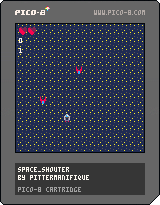
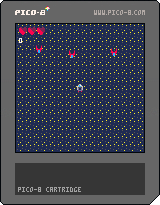
update game

diff --git a/games/index.js b/games/index.js
@@ -3,6 +3,8 @@ var _cdpos=0; var iii=0; var ciii=0;
 var _cartdat=[
 0,0,0,0,0,96,6,0,0,0,0,0,17,26,17,17,32,2,32,2,32,0,0,2,0,0,0,0,0,0,0,0,0,0,0,0,0,0,0,0,0,0,0,0,0,0,0,0,0,0,0,0,0,0,0,0,0,0,0,0,0,0,0,0,0,0,0,0,0,198,103,0,0,0,0,0,17,17,17,26,136,34,34,34,128,0,0,8,0,179,59,0,0,0,0,0,0,0,0,0,0,0,0,0,0,0,0,0,0,0,0,0,0,0,0,0,0,0,0,0,0,0,0,0,0,0,0,0,0,7,112,0,96,198,108,6,0,10,160,0,17,21,17,17,136,40,34,34,128,0,0,8,176,59,187,11,0,0,0,0,0,0,0,0,0,0,0,0,0,0,0,0,0,0,0,0,0,0,0,0,0,0,0,0,0,0,0,0,0,0,0,0,0,112,7,0,96,85,85,6,0,0,0,0,17,17,17,17,136,136,34,34,128,8,128,8,176,183,123,11,0,0,0,0,0,0,0,0,0,0,0,0,0,0,0,0,0,0,0,0,0,0,0,0,0,0,0,0,0,0,0,0,0,0,0,0,
 0,112,7,0,96,29,209,6,0,9,144,0,17,17,17,21,136,136,40,34,128,136,136,8,59,187,179,179,0,0,0,0,0,0,0,0,0,0,0,0,0,0,0,0,0,0,0,0,0,0,0,0,0,0,0,0,0,0,0,0,0,0,0,0,0,7,112,0,96,29,209,6,0,9,144,0,81,17,17,17,128,136,136,2,0,200,140,0,187,59,187,179,0,0,0,0,0,0,0,0,0,0,0,0,0,0,0,0,0,0,0,0,0,0,0,0,0,0,0,0,0,0,0,0,0,0,0,0,0,0,0,0,0,221,221,0,0,9,144,0,17,17,26,17,0,136,136,0,0,200,140,0,59,59,179,179,0,0,0,0,0,0,0,0,0,0,0,0,0,0,0,0,0,0,0,0,0,0,0,0,0,0,0,0,0,0,0,0,0,0,0,0,0,0,0,0,0,8,128,0,0,0,0,0,17,17,17,17,0,128,8,0,0,192,12,0,48,0,3,3,0,0,0,0,0,0,0,0,0,0,0,0,0,0,0,0,0,0,0,0,0,0,0,0,0,0,0,0,0,0,0,0,0,0,0,0,
+0,0,0,0,0,0,0,0,0,0,0,0,0,0,0,0,0,0,0,0,0,0,0,0,0,0,0,0,0,0,0,0,0,0,0,0,0,0,0,0,0,0,0,0,0,0,0,0,0,0,0,0,0,0,0,0,0,0,0,0,0,0,0,0,0,0,0,0,0,32,2,0,0,0,0,7,112,0,0,0,0,0,112,0,0,0,0,0,0,0,0,0,0,0,0,0,0,0,0,0,0,0,0,0,0,0,0,0,0,0,0,0,0,0,0,0,0,0,0,0,0,0,0,0,0,0,0,0,0,0,10,0,0,34,34,0,0,0,0,0,0,0,0,0,0,0,0,0,0,0,7,0,0,0,0,0,0,0,0,0,0,0,0,0,0,0,0,0,0,0,0,0,0,0,0,0,0,0,0,0,0,0,0,0,0,0,0,0,0,0,0,0,0,112,122,0,32,34,34,2,0,0,0,0,0,0,0,0,0,0,0,0,0,0,0,0,0,0,0,0,0,0,0,0,0,0,0,0,0,0,0,0,0,0,0,0,0,0,0,0,0,0,0,0,0,0,0,0,0,0,0,0,0,0,0,0,
+0,170,169,10,39,34,34,114,0,0,0,0,0,0,112,0,160,0,0,0,0,0,0,0,0,0,0,0,0,0,0,0,0,0,0,0,0,0,0,0,0,0,0,0,0,0,0,0,0,0,0,0,0,0,0,0,0,0,0,0,0,0,0,0,0,112,122,0,112,119,119,7,0,0,0,0,0,0,0,0,0,0,160,0,0,7,0,10,0,0,0,0,0,0,0,0,0,0,0,0,0,0,0,0,0,0,0,0,0,0,0,0,0,0,0,0,0,0,0,0,0,0,0,0,0,0,0,0,0,0,10,0,0,34,34,0,112,0,0,0,0,10,0,0,0,0,0,0,0,0,0,0,0,0,0,0,0,0,0,0,0,0,0,0,0,0,0,0,0,0,0,0,0,0,0,0,0,0,0,0,0,0,0,0,0,0,0,0,0,0,0,0,0,0,0,0,0,0,0,0,0,0,0,0,0,0,0,0,0,0,0,0,0,0,0,0,0,0,0,0,0,0,0,0,0,0,0,0,0,0,0,0,0,0,0,0,0,0,0,0,0,0,0,0,0,0,0,0,0,0,0,0,0,0,0,0,
 0,0,0,0,0,0,0,0,0,0,0,0,0,0,0,0,0,0,0,0,0,0,0,0,0,0,0,0,0,0,0,0,0,0,0,0,0,0,0,0,0,0,0,0,0,0,0,0,0,0,0,0,0,0,0,0,0,0,0,0,0,0,0,0,0,0,0,0,0,0,0,0,0,0,0,0,0,0,0,0,0,0,0,0,0,0,0,0,0,0,0,0,0,0,0,0,0,0,0,0,0,0,0,0,0,0,0,0,0,0,0,0,0,0,0,0,0,0,0,0,0,0,0,0,0,0,0,0,0,0,0,0,0,0,0,0,0,0,0,0,0,0,0,0,0,0,0,0,0,0,0,0,0,0,0,0,0,0,0,0,0,0,0,0,0,0,0,0,0,0,0,0,0,0,0,0,0,0,0,0,0,0,0,0,0,0,0,0,0,0,0,0,0,0,0,0,0,0,0,0,0,0,0,0,0,0,0,0,0,0,0,0,0,0,0,0,0,0,0,0,0,0,0,0,0,0,0,0,0,0,0,0,0,0,0,0,0,0,0,0,0,0,0,0,0,0,0,0,0,0,0,0,0,0,0,0,
 0,0,0,0,0,0,0,0,0,0,0,0,0,0,0,0,0,0,0,0,0,0,0,0,0,0,0,0,0,0,0,0,0,0,0,0,0,0,0,0,0,0,0,0,0,0,0,0,0,0,0,0,0,0,0,0,0,0,0,0,0,0,0,0,0,0,0,0,0,0,0,0,0,0,0,0,0,0,0,0,0,0,0,0,0,0,0,0,0,0,0,0,0,0,0,0,0,0,0,0,0,0,0,0,0,0,0,0,0,0,0,0,0,0,0,0,0,0,0,0,0,0,0,0,0,0,0,0,0,0,0,0,0,0,0,0,0,0,0,0,0,0,0,0,0,0,0,0,0,0,0,0,0,0,0,0,0,0,0,0,0,0,0,0,0,0,0,0,0,0,0,0,0,0,0,0,0,0,0,0,0,0,0,0,0,0,0,0,0,0,0,0,0,0,0,0,0,0,0,0,0,0,0,0,0,0,0,0,0,0,0,0,0,0,0,0,0,0,0,0,0,0,0,0,0,0,0,0,0,0,0,0,0,0,0,0,0,0,0,0,0,0,0,0,0,0,0,0,0,0,0,0,0,0,0,0,
 0,0,0,0,0,0,0,0,0,0,0,0,0,0,0,0,0,0,0,0,0,0,0,0,0,0,0,0,0,0,0,0,0,0,0,0,0,0,0,0,0,0,0,0,0,0,0,0,0,0,0,0,0,0,0,0,0,0,0,0,0,0,0,0,0,0,0,0,0,0,0,0,0,0,0,0,0,0,0,0,0,0,0,0,0,0,0,0,0,0,0,0,0,0,0,0,0,0,0,0,0,0,0,0,0,0,0,0,0,0,0,0,0,0,0,0,0,0,0,0,0,0,0,0,0,0,0,0,0,0,0,0,0,0,0,0,0,0,0,0,0,0,0,0,0,0,0,0,0,0,0,0,0,0,0,0,0,0,0,0,0,0,0,0,0,0,0,0,0,0,0,0,0,0,0,0,0,0,0,0,0,0,0,0,0,0,0,0,0,0,0,0,0,0,0,0,0,0,0,0,0,0,0,0,0,0,0,0,0,0,0,0,0,0,0,0,0,0,0,0,0,0,0,0,0,0,0,0,0,0,0,0,0,0,0,0,0,0,0,0,0,0,0,0,0,0,0,0,0,0,0,0,0,0,0,0,
@@ -33,14 +35,12 @@ var _cartdat=[
 0,0,0,0,0,0,0,0,0,0,0,0,0,0,0,0,0,0,0,0,0,0,0,0,0,0,0,0,0,0,0,0,0,0,0,0,0,0,0,0,0,0,0,0,0,0,0,0,0,0,0,0,0,0,0,0,0,0,0,0,0,0,0,0,0,0,0,0,0,0,0,0,0,0,0,0,0,0,0,0,0,0,0,0,0,0,0,0,0,0,0,0,0,0,0,0,0,0,0,0,0,0,0,0,0,0,0,0,0,0,0,0,0,0,0,0,0,0,0,0,0,0,0,0,0,0,0,0,0,0,0,0,0,0,0,0,0,0,0,0,0,0,0,0,0,0,0,0,0,0,0,0,0,0,0,0,0,0,0,0,0,0,0,0,0,0,0,0,0,0,0,0,0,0,0,0,0,0,0,0,0,0,0,0,0,0,0,0,0,0,0,0,0,0,0,0,0,0,0,0,0,0,0,0,0,0,0,0,0,0,0,0,0,0,0,0,0,0,0,0,0,0,0,0,0,0,0,0,0,0,0,0,0,0,0,0,0,0,0,0,0,0,0,0,0,0,0,0,0,0,0,0,0,0,0,0,
 0,0,0,0,0,0,0,0,0,0,0,0,0,0,0,0,0,0,0,0,0,0,0,0,0,0,0,0,0,0,0,0,0,0,0,0,0,0,0,0,0,0,0,0,0,0,0,0,0,0,0,0,0,0,0,0,0,0,0,0,0,0,0,0,0,0,0,0,0,0,0,0,0,0,0,0,0,0,0,0,0,0,0,0,0,0,0,0,0,0,0,0,0,0,0,0,0,0,0,0,0,0,0,0,0,0,0,0,0,0,0,0,0,0,0,0,0,0,0,0,0,0,0,0,0,0,0,0,0,0,0,0,0,0,0,0,0,0,0,0,0,0,0,0,0,0,0,0,0,0,0,0,0,0,0,0,0,0,0,0,0,0,0,0,0,0,0,0,0,0,0,0,0,0,0,0,0,0,0,0,0,0,0,0,0,0,0,0,0,0,0,0,0,0,0,0,0,0,0,0,0,0,0,0,0,0,0,0,0,0,0,0,0,0,0,0,0,0,0,0,0,0,0,0,0,0,0,0,0,0,0,0,0,0,0,0,0,0,0,0,0,0,0,0,0,0,0,0,0,0,0,0,0,0,0,0,
 0,0,0,0,0,0,0,0,0,0,0,0,0,0,0,0,0,0,0,0,0,0,0,0,0,0,0,0,0,0,0,0,0,0,0,0,0,0,0,0,0,0,0,0,0,0,0,0,0,0,0,0,0,0,0,0,0,0,0,0,0,0,0,0,0,0,0,0,0,0,0,0,0,0,0,0,0,0,0,0,0,0,0,0,0,0,0,0,0,0,0,0,0,0,0,0,0,0,0,0,0,0,0,0,0,0,0,0,0,0,0,0,0,0,0,0,0,0,0,0,0,0,0,0,0,0,0,0,0,0,0,0,0,0,0,0,0,0,0,0,0,0,0,0,0,0,0,0,0,0,0,0,0,0,0,0,0,0,0,0,0,0,0,0,0,0,0,0,0,0,0,0,0,0,0,0,0,0,0,0,0,0,0,0,0,0,0,0,0,0,0,0,0,0,0,0,0,0,0,0,0,0,0,0,0,0,0,0,0,0,0,0,0,0,0,0,0,0,0,0,0,0,0,0,0,0,0,0,0,0,0,0,0,0,0,0,0,0,0,0,0,0,0,0,0,0,0,0,0,0,0,0,0,0,0,0,
-3,3,3,3,3,3,3,3,3,3,3,3,3,3,3,3,0,0,0,0,0,0,0,0,0,0,0,0,0,0,0,0,0,0,0,0,0,0,0,0,0,0,0,0,0,0,0,0,0,0,0,0,0,0,0,0,0,0,0,0,0,0,0,0,0,0,0,0,0,0,0,0,0,0,0,0,0,0,0,0,0,0,0,0,0,0,0,0,0,0,0,0,0,0,0,0,0,0,0,0,0,0,0,0,0,0,0,0,0,0,0,0,0,0,0,0,0,0,0,0,0,0,0,0,0,0,0,0,3,3,3,3,3,3,3,3,3,3,3,3,3,3,3,3,0,0,0,0,0,0,0,0,0,0,0,0,0,0,0,0,0,0,0,0,0,0,0,0,0,0,0,0,0,0,0,0,0,0,0,0,0,0,0,0,0,0,0,0,0,0,0,0,0,0,0,0,0,0,0,0,0,0,0,0,0,0,0,0,0,0,0,0,0,0,0,0,0,0,0,0,0,0,0,0,0,0,0,0,0,0,0,0,0,0,0,0,0,0,0,0,0,0,0,0,0,0,0,0,0,0,0,0,0,0,0,0,
-3,3,3,3,3,3,3,3,3,3,3,3,3,3,3,3,0,0,0,0,0,0,0,0,0,0,0,0,0,0,0,0,0,0,0,0,0,0,0,0,0,0,0,0,0,0,0,0,0,0,0,0,0,0,0,0,0,0,0,0,0,0,0,0,0,0,0,0,0,0,0,0,0,0,0,0,0,0,0,0,0,0,0,0,0,0,0,0,0,0,0,0,0,0,0,0,0,0,0,0,0,0,0,0,0,0,0,0,0,0,0,0,0,0,0,0,0,0,0,0,0,0,0,0,0,0,0,0,3,3,3,3,3,3,3,3,3,3,3,3,3,3,3,3,0,0,0,0,0,0,0,0,0,0,0,0,0,0,0,0,0,0,0,0,0,0,0,0,0,0,0,0,0,0,0,0,0,0,0,0,0,0,0,0,0,0,0,0,0,0,0,0,0,0,0,0,0,0,0,0,0,0,0,0,0,0,0,0,0,0,0,0,0,0,0,0,0,0,0,0,0,0,0,0,0,0,0,0,0,0,0,0,0,0,0,0,0,0,0,0,0,0,0,0,0,0,0,0,0,0,0,0,0,0,0,0,
-3,3,3,3,3,3,3,3,3,3,3,3,3,3,3,3,0,0,0,0,0,0,0,0,0,0,0,0,0,0,0,0,0,0,0,0,0,0,0,0,0,0,0,0,0,0,0,0,0,0,0,0,0,0,0,0,0,0,0,0,0,0,0,0,0,0,0,0,0,0,0,0,0,0,0,0,0,0,0,0,0,0,0,0,0,0,0,0,0,0,0,0,0,0,0,0,0,0,0,0,0,0,0,0,0,0,0,0,0,0,0,0,0,0,0,0,0,0,0,0,0,0,0,0,0,0,0,0,3,3,3,3,3,3,3,3,3,3,3,3,3,3,3,3,0,0,0,0,0,0,0,0,0,0,0,0,0,0,0,0,0,0,0,0,0,0,0,0,0,0,0,0,0,0,0,0,0,0,0,0,0,0,0,0,0,0,0,0,0,0,0,0,0,0,0,0,0,0,0,0,0,0,0,0,0,0,0,0,0,0,0,0,0,0,0,0,0,0,0,0,0,0,0,0,0,0,0,0,0,0,0,0,0,0,0,0,0,0,0,0,0,0,0,0,0,0,0,0,0,0,0,0,0,0,0,0,
-3,3,3,3,3,3,3,3,3,3,3,3,3,3,3,3,0,0,0,0,0,0,0,0,0,0,0,0,0,0,0,0,0,0,0,0,0,0,0,0,0,0,0,0,0,0,0,0,0,0,0,0,0,0,0,0,0,0,0,0,0,0,0,0,0,0,0,0,0,0,0,0,0,0,0,0,0,0,0,0,0,0,0,0,0,0,0,0,0,0,0,0,0,0,0,0,0,0,0,0,0,0,0,0,0,0,0,0,0,0,0,0,0,0,0,0,0,0,0,0,0,0,0,0,0,0,0,0,3,3,3,3,3,3,3,3,3,3,3,3,3,3,3,3,0,0,0,0,0,0,0,0,0,0,0,0,0,0,0,0,0,0,0,0,0,0,0,0,0,0,0,0,0,0,0,0,0,0,0,0,0,0,0,0,0,0,0,0,0,0,0,0,0,0,0,0,0,0,0,0,0,0,0,0,0,0,0,0,0,0,0,0,0,0,0,0,0,0,0,0,0,0,0,0,0,0,0,0,0,0,0,0,0,0,0,0,0,0,0,0,0,0,0,0,0,0,0,0,0,0,0,0,0,0,0,0,
-3,3,3,3,3,3,3,3,3,3,3,3,3,3,3,3,0,0,0,0,0,0,0,0,0,0,0,0,0,0,0,0,0,0,0,0,0,0,0,0,0,0,0,0,0,0,0,0,0,0,0,0,0,0,0,0,0,0,0,0,0,0,0,0,0,0,0,0,0,0,0,0,0,0,0,0,0,0,0,0,0,0,0,0,0,0,0,0,0,0,0,0,0,0,0,0,0,0,0,0,0,0,0,0,0,0,0,0,0,0,0,0,0,0,0,0,0,0,0,0,0,0,0,0,0,0,0,0,3,3,3,3,3,3,3,3,3,3,3,3,3,3,3,3,0,0,0,0,0,0,0,0,0,0,0,0,0,0,0,0,0,0,0,0,0,0,0,0,0,0,0,0,0,0,0,0,0,0,0,0,0,0,0,0,0,0,0,0,0,0,0,0,0,0,0,0,0,0,0,0,0,0,0,0,0,0,0,0,0,0,0,0,0,0,0,0,0,0,0,0,0,0,0,0,0,0,0,0,0,0,0,0,0,0,0,0,0,0,0,0,0,0,0,0,0,0,0,0,0,0,0,0,0,0,0,0,
-3,3,3,3,3,3,3,3,3,3,3,3,3,3,3,3,0,0,0,0,0,0,0,0,0,0,0,0,0,0,0,0,0,0,0,0,0,0,0,0,0,0,0,0,0,0,0,0,0,0,0,0,0,0,0,0,0,0,0,0,0,0,0,0,0,0,0,0,0,0,0,0,0,0,0,0,0,0,0,0,0,0,0,0,0,0,0,0,0,0,0,0,0,0,0,0,0,0,0,0,0,0,0,0,0,0,0,0,0,0,0,0,0,0,0,0,0,0,0,0,0,0,0,0,0,0,0,0,3,3,3,3,3,3,3,3,3,3,3,3,3,3,3,3,0,0,0,0,0,0,0,0,0,0,0,0,0,0,0,0,0,0,0,0,0,0,0,0,0,0,0,0,0,0,0,0,0,0,0,0,0,0,0,0,0,0,0,0,0,0,0,0,0,0,0,0,0,0,0,0,0,0,0,0,0,0,0,0,0,0,0,0,0,0,0,0,0,0,0,0,0,0,0,0,0,0,0,0,0,0,0,0,0,0,0,0,0,0,0,0,0,0,0,0,0,0,0,0,0,0,0,0,0,0,0,0,
-3,3,3,3,3,3,3,3,3,3,3,3,3,3,3,3,0,0,0,0,0,0,0,0,0,0,0,0,0,0,0,0,0,0,0,0,0,0,0,0,0,0,0,0,0,0,0,0,0,0,0,0,0,0,0,0,0,0,0,0,0,0,0,0,0,0,0,0,0,0,0,0,0,0,0,0,0,0,0,0,0,0,0,0,0,0,0,0,0,0,0,0,0,0,0,0,0,0,0,0,0,0,0,0,0,0,0,0,0,0,0,0,0,0,0,0,0,0,0,0,0,0,0,0,0,0,0,0,3,3,3,3,3,3,3,3,3,3,3,3,3,3,3,3,0,0,0,0,0,0,0,0,0,0,0,0,0,0,0,0,0,0,0,0,0,0,0,0,0,0,0,0,0,0,0,0,0,0,0,0,0,0,0,0,0,0,0,0,0,0,0,0,0,0,0,0,0,0,0,0,0,0,0,0,0,0,0,0,0,0,0,0,0,0,0,0,0,0,0,0,0,0,0,0,0,0,0,0,0,0,0,0,0,0,0,0,0,0,0,0,0,0,0,0,0,0,0,0,0,0,0,0,0,0,0,0,
-3,3,3,3,3,3,3,3,3,3,3,3,3,3,3,3,0,0,0,0,0,0,0,0,0,0,0,0,0,0,0,0,0,0,0,0,0,0,0,0,0,0,0,0,0,0,0,0,0,0,0,0,0,0,0,0,0,0,0,0,0,0,0,0,0,0,0,0,0,0,0,0,0,0,0,0,0,0,0,0,0,0,0,0,0,0,0,0,0,0,0,0,0,0,0,0,0,0,0,0,0,0,0,0,0,0,0,0,0,0,0,0,0,0,0,0,0,0,0,0,0,0,0,0,0,0,0,0,3,3,3,3,3,3,3,3,3,3,3,3,3,3,3,3,0,0,0,0,0,0,0,0,0,0,0,0,0,0,0,0,0,0,0,0,0,0,0,0,0,0,0,0,0,0,0,0,0,0,0,0,0,0,0,0,0,0,0,0,0,0,0,0,0,0,0,0,0,0,0,0,0,0,0,0,0,0,0,0,0,0,0,0,0,0,0,0,0,0,0,0,0,0,0,0,0,0,0,0,0,0,0,0,0,0,0,0,0,0,0,0,0,0,0,0,0,0,0,0,0,0,0,0,0,0,0,0,
+0,0,0,0,0,0,0,0,0,0,0,0,0,0,0,0,0,0,0,0,0,0,0,0,0,0,0,0,0,0,0,0,0,0,0,0,0,0,0,0,0,0,0,0,0,0,0,0,0,0,0,0,0,0,0,0,0,0,0,0,0,0,0,0,0,0,0,0,0,0,0,0,0,0,0,0,0,0,0,0,0,0,0,0,0,0,0,0,0,0,0,0,0,0,0,0,0,0,0,0,0,0,0,0,0,0,0,0,0,0,0,0,0,0,0,0,0,0,0,0,0,0,0,0,0,0,0,0,0,0,0,0,0,0,0,0,0,0,0,0,0,0,0,0,0,0,0,0,0,0,0,0,0,0,0,0,0,0,0,0,0,0,0,0,0,0,0,0,0,0,0,0,0,0,0,0,0,0,0,0,0,0,0,0,0,0,0,0,0,0,0,0,0,0,0,0,0,0,0,0,0,0,0,0,0,0,0,0,0,0,0,0,0,0,0,0,0,0,0,0,0,0,0,0,0,0,0,0,0,0,0,0,0,0,0,0,0,0,0,0,0,0,0,0,0,0,0,0,0,0,0,0,0,0,0,0,
+0,0,0,0,0,0,0,0,0,0,0,0,0,0,0,0,0,0,0,0,0,0,0,0,0,0,0,0,0,0,0,0,0,0,0,0,0,0,0,0,0,0,0,0,0,0,0,0,0,0,0,0,0,0,0,0,0,0,0,0,0,0,0,0,0,0,0,0,0,0,0,0,0,0,0,0,0,0,0,0,0,0,0,0,0,0,0,0,0,0,0,0,0,0,0,0,0,0,0,0,0,0,0,0,0,0,0,0,0,0,0,0,0,0,0,0,0,0,0,0,0,0,0,0,0,0,0,0,0,0,0,0,0,0,0,0,0,0,0,0,0,0,0,0,0,0,0,0,0,0,0,0,0,0,0,0,0,0,0,0,0,0,0,0,0,0,0,0,0,0,0,0,0,0,0,0,0,0,0,0,0,0,0,0,0,0,0,0,0,0,0,0,0,0,0,0,0,0,0,0,0,0,0,0,0,0,0,0,0,0,0,0,0,0,0,0,0,0,0,0,0,0,0,0,0,0,0,0,0,0,0,0,0,0,0,0,0,0,0,0,0,0,0,0,0,0,0,0,0,0,0,0,0,0,0,0,
+0,0,0,0,0,0,0,0,0,0,0,0,0,0,0,0,0,0,0,0,0,0,0,0,0,0,0,0,0,0,0,0,0,0,0,0,0,0,0,0,0,0,0,0,0,0,0,0,0,0,0,0,0,0,0,0,0,0,0,0,0,0,0,0,0,0,0,0,0,0,0,0,0,0,0,0,0,0,0,0,0,0,0,0,0,0,0,0,0,0,0,0,0,0,0,0,0,0,0,0,0,0,0,0,0,0,0,0,0,0,0,0,0,0,0,0,0,0,0,0,0,0,0,0,0,0,0,0,0,0,0,0,0,0,0,0,0,0,0,0,0,0,0,0,0,0,0,0,0,0,0,0,0,0,0,0,0,0,0,0,0,0,0,0,0,0,0,0,0,0,0,0,0,0,0,0,0,0,0,0,0,0,0,0,0,0,0,0,0,0,0,0,0,0,0,0,0,0,0,0,0,0,0,0,0,0,0,0,0,0,0,0,0,0,0,0,0,0,0,0,0,0,0,0,0,0,0,0,0,0,0,0,0,0,0,0,0,0,0,0,0,0,0,0,0,0,0,0,0,0,0,0,0,0,0,0,
+0,0,0,0,0,0,0,0,0,0,0,0,0,0,0,0,0,0,0,0,0,0,0,0,0,0,0,0,0,0,0,0,0,0,0,0,0,0,0,0,0,0,0,0,0,0,0,0,0,0,0,0,0,0,0,0,0,0,0,0,0,0,0,0,0,0,0,0,0,0,0,0,0,0,0,0,0,0,0,0,0,0,0,0,0,0,0,0,0,0,0,0,0,0,0,0,0,0,0,0,0,0,0,0,0,0,0,0,0,0,0,0,0,0,0,0,0,0,0,0,0,0,0,0,0,0,0,0,0,0,0,0,0,0,0,0,0,0,0,0,0,0,0,0,0,0,0,0,0,0,0,0,0,0,0,0,0,0,0,0,0,0,0,0,0,0,0,0,0,0,0,0,0,0,0,0,0,0,0,0,0,0,0,0,0,0,0,0,0,0,0,0,0,0,0,0,0,0,0,0,0,0,0,0,0,0,0,0,0,0,0,0,0,0,0,0,0,0,0,0,0,0,0,0,0,0,0,0,0,0,0,0,0,0,0,0,0,0,0,0,0,0,0,0,0,0,0,0,0,0,0,0,0,0,0,0,
+0,0,0,0,0,0,0,0,0,0,0,0,0,0,0,0,0,0,0,0,0,0,0,0,0,0,0,0,0,0,0,0,0,0,0,0,0,0,0,0,0,0,0,0,0,0,0,0,0,0,0,0,0,0,0,0,0,0,0,0,0,0,0,0,0,0,0,0,0,0,0,0,0,0,0,0,0,0,0,0,0,0,0,0,0,0,0,0,0,0,0,0,0,0,0,0,0,0,0,0,0,0,0,0,0,0,0,0,0,0,0,0,0,0,0,0,0,0,0,0,0,0,0,0,0,0,0,0,0,0,0,0,0,0,0,0,0,0,0,0,0,0,0,0,0,0,0,0,0,0,0,0,0,0,0,0,0,0,0,0,0,0,0,0,0,0,0,0,0,0,0,0,0,0,0,0,0,0,0,0,0,0,0,0,0,0,0,0,0,0,0,0,0,0,0,0,0,0,0,0,0,0,0,0,0,0,0,0,0,0,0,0,0,0,0,0,0,0,0,0,0,0,0,0,0,0,0,0,0,0,0,0,0,0,0,0,0,0,0,0,0,0,0,0,0,0,0,0,0,0,0,0,0,0,0,0,
+0,0,0,0,0,0,0,0,0,0,0,0,0,0,0,0,0,0,0,0,0,0,0,0,0,0,0,0,0,0,0,0,0,0,0,0,0,0,0,0,0,0,0,0,0,0,0,0,0,0,0,0,0,0,0,0,0,0,0,0,0,0,0,0,0,0,0,0,0,0,0,0,0,0,0,0,0,0,0,0,0,0,0,0,0,0,0,0,0,0,0,0,0,0,0,0,0,0,0,0,0,0,0,0,0,0,0,0,0,0,0,0,0,0,0,0,0,0,0,0,0,0,0,0,0,0,0,0,0,0,0,0,0,0,0,0,0,0,0,0,0,0,0,0,0,0,0,0,0,0,0,0,0,0,0,0,0,0,0,0,0,0,0,0,0,0,0,0,0,0,0,0,0,0,0,0,0,0,0,0,0,0,0,0,0,0,0,0,0,0,0,0,0,0,0,0,0,0,0,0,0,0,0,0,0,0,0,0,0,0,0,0,0,0,0,0,0,0,0,0,0,0,0,0,0,0,0,0,0,0,0,0,0,0,0,0,0,0,0,0,0,0,0,0,0,0,0,0,0,0,0,0,0,0,0,0,
 0,0,0,0,0,0,0,0,0,0,0,0,0,0,0,0,0,0,0,0,0,0,0,0,0,0,0,0,0,0,0,0,0,0,0,0,0,0,0,0,0,0,0,0,0,0,0,0,0,0,0,0,0,0,0,0,0,0,0,0,0,0,0,0,0,0,0,0,0,0,0,0,0,0,0,0,0,0,0,0,0,0,0,0,0,0,0,0,0,0,0,0,0,0,0,0,0,0,0,0,0,0,0,0,0,0,0,0,0,0,0,0,0,0,0,0,0,0,0,0,0,0,0,0,0,0,0,0,0,0,0,0,0,0,0,0,0,0,0,0,0,0,0,0,0,0,0,0,0,0,0,0,0,0,0,0,0,0,0,0,0,0,0,0,0,0,0,0,0,0,0,0,0,0,0,0,0,0,0,0,0,0,0,0,0,0,0,0,0,0,0,0,0,0,0,0,0,0,0,0,0,0,0,0,0,0,0,0,0,0,0,0,0,0,0,0,0,0,0,0,0,0,0,0,0,0,0,0,0,0,0,0,0,0,0,0,0,0,0,0,0,0,0,0,0,0,0,0,0,0,0,0,0,0,0,0,
 0,0,0,0,0,0,0,0,0,0,0,0,0,0,0,0,0,0,0,0,0,0,0,0,0,0,0,0,0,0,0,0,0,0,0,0,0,0,0,0,0,0,0,0,0,0,0,0,0,0,0,0,0,0,0,0,0,0,0,0,0,0,0,0,0,0,0,0,0,0,0,0,0,0,0,0,0,0,0,0,0,0,0,0,0,0,0,0,0,0,0,0,0,0,0,0,0,0,0,0,0,0,0,0,0,0,0,0,0,0,0,0,0,0,0,0,0,0,0,0,0,0,0,0,0,0,0,0,0,0,0,0,0,0,0,0,0,0,0,0,0,0,0,0,0,0,0,0,0,0,0,0,0,0,0,0,0,0,0,0,0,0,0,0,0,0,0,0,0,0,0,0,0,0,0,0,0,0,0,0,0,0,0,0,0,0,0,0,0,0,0,0,0,0,0,0,0,0,0,0,0,0,0,0,0,0,0,0,0,0,0,0,0,0,0,0,0,0,0,0,0,0,0,0,0,0,0,0,0,0,0,0,0,0,0,0,0,0,0,0,0,0,0,0,0,0,0,0,0,0,0,0,0,0,0,0,
 0,0,0,0,0,0,0,0,0,0,0,0,0,0,0,0,0,0,0,0,0,0,0,0,0,0,0,0,0,0,0,0,0,0,0,0,0,0,0,0,0,0,0,0,0,0,0,0,0,0,0,0,0,0,0,0,0,0,0,0,0,0,0,0,0,0,0,0,0,0,0,0,0,0,0,0,0,0,0,0,0,0,0,0,0,0,0,0,0,0,0,0,0,0,0,0,0,0,0,0,0,0,0,0,0,0,0,0,0,0,0,0,0,0,0,0,0,0,0,0,0,0,0,0,0,0,0,0,0,0,0,0,0,0,0,0,0,0,0,0,0,0,0,0,0,0,0,0,0,0,0,0,0,0,0,0,0,0,0,0,0,0,0,0,0,0,0,0,0,0,0,0,0,0,0,0,0,0,0,0,0,0,0,0,0,0,0,0,0,0,0,0,0,0,0,0,0,0,0,0,0,0,0,0,0,0,0,0,0,0,0,0,0,0,0,0,0,0,0,0,0,0,0,0,0,0,0,0,0,0,0,0,0,0,0,0,0,0,0,0,0,0,0,0,0,0,0,0,0,0,0,0,0,0,0,0,
@@ -68,13 +68,13 @@ var _cartdat=[
 0,0,0,0,0,0,0,0,0,0,0,0,0,0,0,0,0,16,0,0,0,0,0,0,0,0,0,0,0,0,0,0,0,0,0,0,0,0,0,0,0,0,0,0,0,0,0,0,0,0,0,0,0,0,0,0,0,0,0,0,0,0,0,0,0,0,0,0,0,0,0,0,0,0,0,0,0,0,0,0,0,0,0,0,0,16,0,0,0,0,0,0,0,0,0,0,0,0,0,0,0,0,0,0,0,0,0,0,0,0,0,0,0,0,0,0,0,0,0,0,0,0,0,0,0,0,0,0,0,0,0,0,0,0,0,0,0,0,0,0,0,0,0,0,0,0,0,0,0,0,0,0,0,16,0,0,0,0,0,0,0,0,0,0,0,0,0,0,0,0,0,0,0,0,0,0,0,0,0,0,0,0,0,0,0,0,0,0,0,0,0,0,0,0,0,0,0,0,0,0,0,0,0,0,0,0,0,0,0,0,0,0,0,0,0,0,0,0,0,0,0,16,0,0,0,0,0,0,0,0,0,0,0,0,0,0,0,0,0,0,0,0,0,0,0,0,0,0,0,0,0,0,0,0,0,0,
 0,0,0,0,0,0,0,0,0,0,0,0,0,0,0,0,0,0,0,0,0,0,0,0,0,0,0,0,0,0,0,0,0,16,0,0,0,0,0,0,0,0,0,0,0,0,0,0,0,0,0,0,0,0,0,0,0,0,0,0,0,0,0,0,0,0,0,0,0,0,0,0,0,0,0,0,0,0,0,0,0,0,0,0,0,0,0,0,0,0,0,0,0,0,0,0,0,0,0,0,0,16,0,0,0,0,0,0,0,0,0,0,0,0,0,0,0,0,0,0,0,0,0,0,0,0,0,0,0,0,0,0,0,0,0,0,0,0,0,0,0,0,0,0,0,0,0,0,0,0,0,0,0,0,0,0,0,0,0,0,0,0,0,0,0,0,0,0,0,16,0,0,0,0,0,0,0,0,0,0,0,0,0,0,0,0,0,0,0,0,0,0,0,0,0,0,0,0,0,0,0,0,0,0,0,0,0,0,0,0,0,0,0,0,0,0,0,0,0,0,0,0,0,0,0,0,0,0,0,0,0,0,0,0,0,0,0,16,0,0,0,0,0,0,0,0,0,0,0,0,0,0,0,0,0,0,
 0,0,0,0,0,0,0,0,0,0,0,0,0,0,0,0,0,0,0,0,0,0,0,0,0,0,0,0,0,0,0,0,0,0,0,0,0,0,0,0,0,0,0,0,0,0,0,0,0,16,0,0,0,0,0,0,0,0,0,0,0,0,0,0,0,0,0,0,0,0,0,0,0,0,0,0,0,0,0,0,0,0,0,0,0,0,0,0,0,0,0,0,0,0,0,0,0,0,0,0,0,0,0,0,0,0,0,0,0,0,0,0,0,0,0,0,0,16,0,0,0,0,0,0,0,0,0,0,0,0,0,0,0,0,0,0,0,0,0,0,0,0,0,0,0,0,0,0,0,0,0,0,0,0,0,0,0,0,0,0,0,0,0,0,0,0,0,0,0,0,0,0,0,0,0,0,0,0,0,0,0,0,0,0,0,16,0,0,0,0,0,0,0,0,0,0,0,0,0,0,0,0,0,0,0,0,0,0,0,0,0,0,0,0,0,0,0,0,0,0,0,0,0,0,0,0,0,0,0,0,0,0,0,0,0,0,0,0,0,0,0,0,0,0,0,0,0,0,0,0,0,0,0,16,0,0,
-0,112,120,97,15,50,5,116,235,193,226,27,188,192,205,87,223,125,116,117,250,11,188,194,43,100,175,176,99,136,219,95,34,207,31,32,52,195,35,12,188,66,244,2,197,51,228,121,29,84,77,182,145,134,3,81,189,17,53,69,117,203,49,237,224,66,121,95,241,22,79,209,220,118,218,81,101,57,148,157,119,152,13,230,234,161,224,17,178,211,46,187,206,18,15,177,179,22,118,231,153,102,109,109,179,170,236,83,140,45,22,77,237,141,92,85,32,28,172,179,176,235,198,118,118,94,35,73,70,211,52,40,211,25,69,17,55,36,139,197,232,138,89,195,141,170,52,102,150,44,8,145,171,25,74,54,218,76,138,164,156,89,232,134,212,69,146,171,86,146,169,162,156,77,243,149,149,172,221,152,152,120,138,50,42,202,118,69,175,164,84,29,157,115,147,122,216,172,188,208,236,108,174,67,16,88,86,140,44,73,44,15,69,50,71,181,233,220,206,78,168,110,98,39,233,129,98,43,10,139,124,170,89,219,9,130,56,232,135,130,34,146,32,236,131,185,180,215,24,246,131,130,73,83,196,19,
-137,55,162,149,252,33,214,118,178,33,65,1,239,88,71,224,188,19,97,245,22,242,230,127,226,186,150,40,43,171,169,145,145,81,7,217,101,166,142,71,6,139,165,141,164,173,131,86,87,113,40,154,72,173,161,207,144,86,39,214,241,226,176,7,230,244,136,37,131,118,36,67,197,215,20,3,91,101,133,34,234,7,230,162,41,93,115,74,9,173,182,77,151,54,141,148,152,172,145,92,56,99,25,228,84,121,100,88,46,156,237,130,0,249,52,203,33,248,162,88,174,97,197,242,199,54,123,225,146,45,2,219,73,165,44,230,3,66,74,58,100,130,144,139,138,233,145,91,105,244,214,143,237,224,208,43,77,32,65,169,116,31,237,54,91,233,93,228,226,86,154,23,237,108,98,58,253,59,17,146,25,23,4,241,106,170,127,181,156,101,123,11,129,244,106,231,179,57,241,250,74,205,63,186,45,189,110,251,27,12,181,125,27,69,177,85,6,91,55,28,218,13,40,76,199,75,50,207,117,170,49,15,53,201,213,64,223,116,37,17,241,143,92,58,202,201,201,213,141,38,154,19,243,216,158,105,
-182,70,211,185,229,213,162,222,73,178,168,27,82,238,218,218,200,139,193,185,228,204,202,253,22,241,86,8,25,24,152,49,248,143,205,206,253,63,117,69,164,207,100,51,58,25,15,101,29,185,154,72,51,42,73,146,50,73,54,66,59,68,205,149,123,201,124,155,8,229,63,186,238,10,100,113,106,93,99,107,71,201,125,94,41,188,82,8,157,186,91,191,96,54,30,220,56,208,208,87,70,249,153,19,174,89,183,198,138,76,178,34,82,29,219,172,46,102,2,169,116,10,168,186,73,83,212,90,122,162,145,158,224,140,236,154,194,196,250,88,160,36,83,45,77,109,174,5,58,12,107,153,43,146,100,177,74,186,165,84,143,77,37,144,179,2,84,10,234,157,98,103,199,145,201,78,177,179,147,236,20,59,214,89,29,114,81,165,106,63,53,63,81,251,72,83,108,155,42,85,245,72,106,129,31,35,136,251,207,94,226,54,94,144,254,148,102,48,198,220,20,230,4,141,149,149,91,150,163,129,214,53,186,88,206,170,170,189,206,57,18,46,89,100,141,105,53,110,141,193,66,99,252,103,160,49,
-254,191,77,85,213,147,158,82,25,90,80,25,212,188,81,221,209,59,43,108,164,185,127,123,107,169,215,62,27,113,219,178,156,125,86,68,10,71,180,81,124,159,32,145,200,176,230,76,160,163,14,177,25,153,83,185,112,109,171,133,67,101,133,16,3,99,95,76,198,198,214,99,79,223,24,70,47,197,248,237,141,183,58,237,11,23,89,9,218,194,127,104,17,140,238,108,172,44,70,186,76,118,64,184,160,40,14,211,29,57,226,178,147,12,93,41,98,85,81,161,144,229,201,229,101,73,157,161,172,91,13,181,142,229,194,189,50,181,189,23,78,59,73,175,111,112,102,67,69,152,63,195,255,140,149,10,227,29,86,24,71,66,49,225,42,90,75,137,140,172,88,173,87,25,207,64,109,71,180,11,143,70,249,255,200,118,45,165,233,150,214,177,13,229,148,93,35,153,25,141,232,197,206,118,43,165,118,190,212,145,135,53,138,164,51,130,177,145,45,156,14,168,183,70,55,226,97,55,204,185,33,112,179,47,22,221,225,93,55,21,10,178,73,220,111,55,139,225,196,128,224,147,76,78,98,201,
-172,202,58,85,242,99,110,162,75,163,76,200,63,116,35,94,29,143,165,176,93,123,161,173,58,173,38,101,43,102,22,166,198,72,72,28,18,5,99,19,138,144,202,106,99,173,106,166,112,224,227,8,7,111,201,134,107,79,54,252,63,94,69,111,116,70,111,156,129,222,248,255,60,146,112,176,222,184,10,189,241,159,27,2,7,101,241,78,165,48,165,66,92,93,172,77,146,122,120,81,74,252,130,54,113,78,206,237,148,18,242,142,2,96,16,77,6,20,196,63,120,20,23,24,132,137,74,21,61,230,8,92,208,52,50,57,145,242,26,48,132,135,128,68,11,219,79,49,32,44,2,50,20,159,186,151,174,184,163,72,87,36,9,2,93,241,103,84,87,252,13,116,197,255,187,109,132,197,127,109,11,150,191,129,96,249,127,175,8,139,255,203,148,208,223,64,9,253,191,43,197,242,127,203,18,235,111,32,177,126,170,194,147,192,197,43,49,127,145,197,120,164,226,85,194,207,248,130,128,127,70,131,0,129,198,23,4,20,52,142,32,0,161,241,4,1,11,141,35,8,112,104,188,238,24,183,
-21,20,141,179,8,184,104,156,65,128,70,227,194,62,241,50,173,232,232,88,48,138,180,226,143,232,100,99,47,208,15,67,251,240,145,125,160,148,33,160,13,73,102,111,165,18,5,154,148,227,242,85,99,65,237,104,85,108,201,22,237,75,46,15,18,186,154,214,35,146,98,63,105,108,156,11,68,48,254,139,175,66,154,77,148,9,101,214,240,5,204,26,110,209,65,100,13,206,144,53,60,195,200,26,30,118,10,33,228,240,75,62,60,226,234,2,0,0,0,0,0,0,0,0,0,0,0,0,0,0,0,0,0,0,0,0,0,0,0,0,0,0,0,0,0,0,0,0,0,0,0,0,0,0,0,0,0,0,0,0,0,0,0,0,0,0,0,0,0,0,0,0,0,0,0,0,0,0,0,0,0,0,0,0,0,0,0,0,0,0,0,0,0,0,0,0,0,0,0,0,0,0,0,0,0,0,0,0,0,0,0,0,0,0,0,0,0,0,0,0,0,0,0,0,0,0,0,0,0,0,0,0,0,0,0,0,0,0,0,0,0,0,0,0,0,0,0,0,0,0,0,0,0,0,0,0,
-0,0,0,0,0,0,0,0,0,0,0,0,0,0,0,0,0,0,0,0,0,0,0,0,0,0,0,0,0,0,0,0,0,0,0,0,0,0,0,0,0,0,0,0,0,0,0,0,0,0,0,0,0,0,0,0,0,0,0,0,0,0,0,0,0,0,0,0,0,0,0,0,0,0,0,0,0,0,0,0,0,0,0,0,0,0,0,0,0,0,0,0,0,0,0,0,0,0,0,0,0,0,0,0,0,0,0,0,0,0,0,0,0,0,0,0,0,0,0,0,0,0,0,0,0,0,0,0,0,0,0,0,0,0,0,0,0,0,0,0,0,0,0,0,0,0,0,0,0,0,0,0,0,0,0,0,0,0,0,0,0,0,0,0,0,0,0,0,0,0,0,0,0,0,0,0,0,0,0,0,0,0,0,0,0,0,0,0,0,0,0,0,0,0,0,0,0,0,0,0,0,0,0,0,0,0,0,0,0,0,0,0,0,0,0,0,0,0,0,0,0,0,0,0,0,0,0,0,0,0,0,0,0,0,0,0,0,0,0,0,0,0,0,0,0,0,0,0,0,0,0,0,0,0,0,0,
+0,112,120,97,17,152,6,25,103,191,194,253,103,191,194,241,47,16,237,158,29,53,69,117,192,5,43,221,35,28,255,10,69,151,158,127,252,27,84,110,8,234,251,219,64,35,28,11,143,208,116,169,111,234,137,200,37,126,139,235,42,203,27,87,172,77,140,164,237,57,3,105,90,84,71,92,151,92,84,68,47,208,141,140,228,89,188,178,52,243,12,101,84,148,173,72,80,56,179,177,81,236,164,175,208,189,132,155,52,4,31,33,111,51,123,12,196,11,73,96,217,166,12,114,205,48,203,6,89,209,215,142,27,104,150,154,129,169,176,105,42,59,73,15,20,77,181,86,148,27,205,93,59,65,48,23,44,44,5,69,36,65,184,16,236,164,181,198,176,31,116,77,154,34,94,75,188,17,109,228,106,39,43,130,2,222,177,142,236,121,251,104,236,33,68,143,202,210,38,19,93,150,71,197,70,154,148,97,176,161,125,52,17,197,169,110,193,150,114,66,149,206,189,196,93,97,20,173,69,209,125,106,10,66,67,178,232,231,138,140,200,156,140,168,214,161,144,96,209,165,19,237,109,101,215,198,
+30,136,5,139,37,131,118,148,71,181,208,164,7,107,233,133,34,218,24,89,139,134,132,207,41,37,116,94,219,116,105,211,72,137,233,30,201,133,51,214,73,78,149,71,238,147,11,103,187,34,64,62,205,114,72,182,40,150,235,62,197,242,199,54,107,225,134,45,2,219,105,169,12,230,3,74,75,58,100,138,145,123,210,232,81,159,105,4,217,143,235,130,43,47,52,129,44,164,46,125,196,221,108,165,96,179,20,46,4,245,64,89,228,171,137,233,188,240,22,35,149,8,201,144,11,130,133,182,145,8,122,141,48,156,108,3,233,213,206,103,154,247,214,162,127,228,95,38,116,219,223,96,40,157,72,163,168,181,202,102,234,134,59,187,13,9,234,118,66,230,57,78,69,232,33,55,57,24,232,155,238,36,146,251,145,75,71,57,186,57,59,209,68,43,194,6,71,174,52,75,163,233,220,244,106,81,239,36,89,212,13,85,125,151,109,236,142,12,20,139,123,201,110,229,126,235,237,42,4,77,76,236,24,252,199,104,231,254,159,153,242,229,136,178,66,89,234,124,72,239,232,222,116,154,81,85,
+146,232,94,172,164,118,104,155,27,247,146,43,243,68,73,255,209,117,151,158,161,165,155,226,60,251,20,246,41,4,78,221,173,91,176,219,14,46,221,103,232,35,163,250,202,17,215,236,91,99,69,30,89,9,169,142,109,86,23,99,129,68,58,133,83,221,164,41,106,45,61,209,72,79,112,71,110,77,89,98,126,43,80,144,169,230,200,40,96,46,140,138,189,196,21,178,63,69,181,18,234,176,169,4,78,37,137,74,65,182,82,172,172,56,50,89,41,86,86,146,149,98,197,58,171,51,46,82,152,183,6,5,65,5,73,226,248,68,173,14,100,130,146,164,170,107,189,230,225,157,60,179,123,100,174,146,82,40,36,12,167,214,150,211,9,53,27,97,146,153,218,37,74,246,55,172,133,107,194,76,233,112,209,74,239,170,145,79,249,135,118,194,127,20,89,182,53,32,244,146,36,122,91,134,24,92,206,60,179,93,228,165,234,101,82,22,211,163,170,129,121,59,49,144,73,138,41,250,10,122,66,93,152,34,122,77,53,5,52,1,130,30,90,26,70,0,186,240,217,75,215,199,11,212,19,88,
+164,90,41,202,137,65,90,117,153,100,58,180,210,164,82,157,163,94,51,18,89,99,3,68,130,53,6,11,141,241,159,129,198,248,255,102,26,227,90,215,24,28,174,5,218,212,206,66,27,73,180,223,222,138,99,229,179,21,183,173,232,248,103,76,162,176,87,70,241,125,130,164,78,102,173,57,17,168,168,163,86,94,162,173,80,185,112,108,168,133,67,99,133,157,3,39,124,177,57,102,108,53,246,76,52,134,81,75,49,126,43,227,45,44,40,188,43,165,213,240,31,42,16,67,75,83,249,144,112,188,28,81,203,198,91,41,85,55,90,178,102,120,114,121,77,54,103,39,91,26,93,208,58,150,11,247,202,212,220,112,184,228,36,80,9,91,28,216,177,13,37,135,159,190,8,25,42,80,208,166,88,114,140,202,97,50,227,252,100,206,147,57,7,195,135,255,42,18,177,242,206,138,149,35,33,193,112,21,177,165,244,74,166,172,54,32,88,158,133,220,142,120,28,30,185,243,223,10,231,255,255,255,63,204,46,221,254,6,27,178,181,179,205,72,37,224,47,145,230,105,125,35,253,142,96,106,
+99,40,110,154,165,209,209,129,122,218,13,107,110,8,220,236,139,69,119,120,215,77,133,144,109,82,15,108,55,139,225,198,130,238,148,86,79,98,201,172,202,58,204,12,255,16,86,124,81,48,167,225,85,24,160,119,194,244,242,162,151,106,87,108,175,121,141,24,68,231,102,134,205,39,185,150,238,217,83,26,106,48,201,204,135,43,98,69,102,62,245,125,88,194,17,203,174,88,157,93,95,89,60,96,101,199,18,173,37,132,33,221,48,239,30,121,63,183,130,175,144,117,121,44,204,153,250,57,85,29,111,140,102,170,89,125,192,184,161,144,24,104,41,81,51,244,21,78,6,87,131,202,152,51,198,255,33,119,106,156,168,169,38,139,208,88,27,246,130,200,112,36,54,137,38,19,221,119,143,173,238,165,19,19,114,239,1,124,241,202,121,140,174,76,14,191,80,29,167,213,148,126,198,228,234,4,95,134,195,14,27,67,19,210,159,186,119,67,212,45,40,28,250,56,194,193,195,178,225,154,150,13,255,143,87,209,27,157,209,27,103,160,55,254,63,143,36,28,172,55,174,66,111,252,231,134,
+192,201,59,9,156,137,189,67,111,67,229,83,208,47,222,152,90,135,83,241,226,197,248,5,50,227,28,28,223,25,80,252,119,20,48,178,104,50,160,32,254,1,213,184,144,48,76,234,175,39,123,129,221,164,145,255,146,98,19,171,199,8,244,139,22,182,159,98,64,89,4,180,52,62,217,47,93,113,71,81,144,200,197,233,138,31,187,186,226,111,160,43,254,223,113,35,44,254,107,90,176,252,13,4,203,255,123,82,88,252,95,166,132,254,6,74,232,255,93,41,150,255,219,150,88,127,3,137,245,83,21,158,84,58,94,205,201,120,225,133,22,36,102,105,123,60,82,241,104,3,128,31,39,101,140,87,179,31,211,99,238,209,174,230,222,16,229,46,71,171,89,176,203,176,233,33,64,47,30,27,157,159,11,230,113,108,252,81,143,28,177,23,169,137,177,153,248,104,86,80,209,107,77,123,96,87,251,62,43,19,233,74,38,46,121,130,14,85,23,172,56,90,222,90,123,69,196,146,125,133,20,171,150,245,136,52,213,79,212,32,103,69,179,227,191,216,52,164,153,85,255,197,14,241,5,216,
+33,110,209,65,234,16,14,169,67,60,147,205,18,187,136,43,130,28,241,75,62,60,74,237,2,0,0,0,0,0,0,0,0,0,0,0,0,0,0,0,0,0,0,0,0,0,0,0,0,0,0,0,0,0,0,0,0,0,0,0,0,0,0,0,0,0,0,0,0,0,0,0,0,0,0,0,0,0,0,0,0,0,0,0,0,0,0,0,0,0,0,0,0,0,0,0,0,0,0,0,0,0,0,0,0,0,0,0,0,0,0,0,0,0,0,0,0,0,0,0,0,0,0,0,0,0,0,0,0,0,0,0,0,0,0,0,0,0,0,0,0,0,0,0,0,0,0,0,0,0,0,0,0,0,0,0,0,0,0,0,0,0,0,0,0,0,0,0,0,0,0,0,0,0,0,0,0,0,0,0,0,0,0,0,0,0,0,0,0,0,0,0,0,0,0,0,0,0,0,0,0,0,0,0,0,0,0,0,0,0,0,0,0,0,0,0,0,0,0,0,0,0,0,0,0,0,0,0,0,0,0,0,0,0,0,0,0,0,0,0,0,0,0,0,0,0,0,0,0,0,0,0,0,0,0,0,
 0,0,0,0,0,0,0,0,0,0,0,0,0,0,0,0,0,0,0,0,0,0,0,0,0,0,0,0,0,0,0,0,0,0,0,0,0,0,0,0,0,0,0,0,0,0,0,0,0,0,0,0,0,0,0,0,0,0,0,0,0,0,0,0,0,0,0,0,0,0,0,0,0,0,0,0,0,0,0,0,0,0,0,0,0,0,0,0,0,0,0,0,0,0,0,0,0,0,0,0,0,0,0,0,0,0,0,0,0,0,0,0,0,0,0,0,0,0,0,0,0,0,0,0,0,0,0,0,0,0,0,0,0,0,0,0,0,0,0,0,0,0,0,0,0,0,0,0,0,0,0,0,0,0,0,0,0,0,0,0,0,0,0,0,0,0,0,0,0,0,0,0,0,0,0,0,0,0,0,0,0,0,0,0,0,0,0,0,0,0,0,0,0,0,0,0,0,0,0,0,0,0,0,0,0,0,0,0,0,0,0,0,0,0,0,0,0,0,0,0,0,0,0,0,0,0,0,0,0,0,0,0,0,0,0,0,0,0,0,0,0,0,0,0,0,0,0,0,0,0,0,0,0,0,0,0,
 0,0,0,0,0,0,0,0,0,0,0,0,0,0,0,0,0,0,0,0,0,0,0,0,0,0,0,0,0,0,0,0,0,0,0,0,0,0,0,0,0,0,0,0,0,0,0,0,0,0,0,0,0,0,0,0,0,0,0,0,0,0,0,0,0,0,0,0,0,0,0,0,0,0,0,0,0,0,0,0,0,0,0,0,0,0,0,0,0,0,0,0,0,0,0,0,0,0,0,0,0,0,0,0,0,0,0,0,0,0,0,0,0,0,0,0,0,0,0,0,0,0,0,0,0,0,0,0,0,0,0,0,0,0,0,0,0,0,0,0,0,0,0,0,0,0,0,0,0,0,0,0,0,0,0,0,0,0,0,0,0,0,0,0,0,0,0,0,0,0,0,0,0,0,0,0,0,0,0,0,0,0,0,0,0,0,0,0,0,0,0,0,0,0,0,0,0,0,0,0,0,0,0,0,0,0,0,0,0,0,0,0,0,0,0,0,0,0,0,0,0,0,0,0,0,0,0,0,0,0,0,0,0,0,0,0,0,0,0,0,0,0,0,0,0,0,0,0,0,0,0,0,0,0,0,0,
 0,0,0,0,0,0,0,0,0,0,0,0,0,0,0,0,0,0,0,0,0,0,0,0,0,0,0,0,0,0,0,0,0,0,0,0,0,0,0,0,0,0,0,0,0,0,0,0,0,0,0,0,0,0,0,0,0,0,0,0,0,0,0,0,0,0,0,0,0,0,0,0,0,0,0,0,0,0,0,0,0,0,0,0,0,0,0,0,0,0,0,0,0,0,0,0,0,0,0,0,0,0,0,0,0,0,0,0,0,0,0,0,0,0,0,0,0,0,0,0,0,0,0,0,0,0,0,0,0,0,0,0,0,0,0,0,0,0,0,0,0,0,0,0,0,0,0,0,0,0,0,0,0,0,0,0,0,0,0,0,0,0,0,0,0,0,0,0,0,0,0,0,0,0,0,0,0,0,0,0,0,0,0,0,0,0,0,0,0,0,0,0,0,0,0,0,0,0,0,0,0,0,0,0,0,0,0,0,0,0,0,0,0,0,0,0,0,0,0,0,0,0,0,0,0,0,0,0,0,0,0,0,0,0,0,0,0,0,0,0,0,0,0,0,0,0,0,0,0,0,0,0,0,0,0,0,

diff --git a/games/index.html b/games/index.html
@@ -980,7 +980,7 @@ canvas{
 
 .p8_start_button{
 	cursor:pointer;
[2 lines of base64/hex data omitted]
 	-repeat center;
 	-webkit-background-size:cover; -moz-background-size:cover; -o-background-size:cover; background-size:cover;
 }
